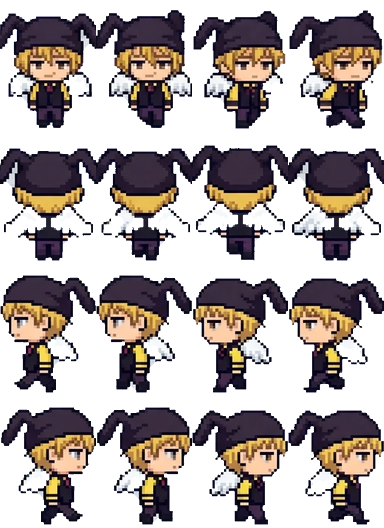
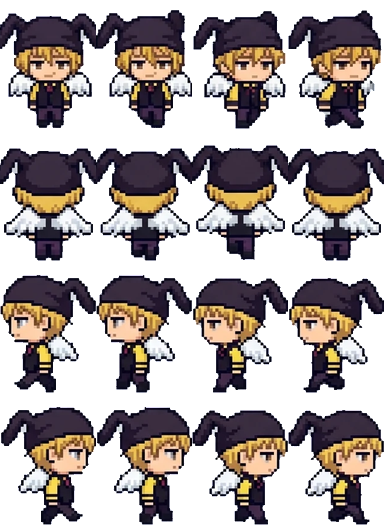
이즈미 날개 누끼 수정 (안쪽 채우기)
Claude-Session: https://claude.ai/code/session_01KaPsBYLrtbRfMYNG2xeBCK

diff --git a/docs/app.js b/docs/app.js
@@ -48,7 +48,7 @@ function spr(cat, k, col, sc) {
   return `<div class="clip" style="width:${it[2] * sc}px;height:${it[3] * sc}px;POS"><img class="px" src="assets/decor/${cat}.png" alt="" style="width:${S.sw * sc}px;height:${S.sh * sc}px;margin-left:${-col * S.cw * sc}px;margin-top:${-i * S.ch * sc}px"></div>`;
 }
 const icon = (k, sz) => `<span class="itm" style="width:${sz}px;height:${sz}px"><img class="px" src="assets/ui/items.png" alt="" style="width:${IT.length * sz}px;height:${sz}px;margin-left:${-ITM[k].i * sz}px"></span>`;
-const face = (id, w) => { const s = w / 96; return `<img class="px" src="assets/ch/${id}.webp?v=2" alt="" style="position:absolute;width:${384 * s}px;height:${528 * s}px;left:${-(96 * s - w) / 2}px;top:0;max-width:none">`; };
+const face = (id, w) => { const s = w / 96; return `<img class="px" src="assets/ch/${id}.webp?v=3" alt="" style="position:absolute;width:${384 * s}px;height:${528 * s}px;left:${-(96 * s - w) / 2}px;top:0;max-width:none">`; };
 
 // ---------- 저장 ----------
 let fb = null, user = null, S = null, saveT = null;
@@ -115,7 +115,7 @@ function sleepHTML(id, r) {
   const pos = r.a && r.a[0] === 'bed' ? 'left:3%;bottom:20%' : r.b && r.b[0] === 'bed' ? 'right:3%;bottom:20%' : 'left:calc(50% - 44px);bottom:6%';
   const s = 36 / 96;
   return `<div style="position:absolute;width:88px;height:56px;${pos};z-index:5"><div style="position:absolute;inset:0;filter:brightness(.22)">
-    <div style="position:absolute;left:11px;top:1px;width:36px;height:50px;overflow:hidden;transform:rotate(-90deg)"><img class="px" src="assets/ch/${id}.webp?v=2" alt="" style="width:${384 * s}px;height:${528 * s}px;max-width:none;margin-top:${-132 * s}px"></div>
+    <div style="position:absolute;left:11px;top:1px;width:36px;height:50px;overflow:hidden;transform:rotate(-90deg)"><img class="px" src="assets/ch/${id}.webp?v=3" alt="" style="width:${384 * s}px;height:${528 * s}px;max-width:none;margin-top:${-132 * s}px"></div>
     <div style="position:absolute;left:19px;top:19px;width:67px;height:29px;border:2px solid var(--ink);border-radius:8px 6px 4px 4px;background:#8ccff5;background-image:repeating-linear-gradient(90deg,transparent 0 10px,rgba(255,255,255,.5) 10px 13px)"></div></div>
     <span class="emo" style="left:8px;top:-22px;color:#5b6bd6">Z z z</span></div>`;
 }
@@ -125,7 +125,7 @@ function roomHTML(id, o, scale) {
     <div class="floor" style="background-color:${PAL[r.fc][1]};background-image:${tileUrl('floor', r.fl)}"></div>
     ${slot('deco', r.dc, 'left:6%;top:6%')}${slot('furn', r.a, 'left:3%;bottom:20%')}${slot('furn', r.b, 'right:3%;bottom:20%')}${slot('prop', r.pr, 'left:28%;bottom:4%;z-index:2')}
     ${id && o.sleeping ? sleepHTML(id, r) : ''}${id && o.job ? `<div style="position:absolute;left:50%;top:38%;transform:translateX(-50%);z-index:5;background:#fff;border:3px solid var(--ink);border-radius:10px;padding:6px 10px;font-size:11px;text-align:center;line-height:1.5"><img src="assets/ui/ic_job.png" alt="" style="width:18px;vertical-align:-4px"> ${esc(JOB_NAME[id])} 알바 중<br><b id="jobleft">${timeLeft(o.job.until)}</b></div>` : ''}
-    ${id ? `<div class="shadow" id="shd"></div><div class="man" id="man"><img class="px" src="assets/ch/${id}.webp?v=2" alt="${esc(nameOf(id))}"></div><span class="emo" id="emo" hidden></span><span class="mumble" id="mum" hidden></span>` : ''}
+    ${id ? `<div class="shadow" id="shd"></div><div class="man" id="man"><img class="px" src="assets/ch/${id}.webp?v=3" alt="${esc(nameOf(id))}"></div><span class="emo" id="emo" hidden></span><span class="mumble" id="mum" hidden></span>` : ''}
     ${o.sleeping ? '<div class="night"></div>' : ''}
   </div>`;
 }

diff --git a/docs/index.html b/docs/index.html
@@ -12,6 +12,6 @@
 <main id="app" aria-live="polite"></main>
 <div id="toast" role="status" hidden></div>
 <script src="firebase-config.js?v=3"></script>
-<script type="module" src="app.js?v=9"></script>
+<script type="module" src="app.js?v=10"></script>
 </body>
 </html>

diff --git a/tk_chars.py b/tk_chars.py
@@ -30,7 +30,7 @@ SIDE = {
     'nifuji':         dict(left=[(3, 0), (3, 1)], right=[(2, 1), (2, 2)]),
     'gintoki':        dict(left=[(2, 1), (2, 2), (2, 3), (2, 4)], right='mirror', fill_inside=True, phase=False, nofill=True),
     'usui':           dict(left='mirror', right=[(2, 1), (2, 2), (2, 3), (2, 4)], up=[0, 1, 2, 4], down=[1, 2, 3, 4]),
-    'izumi':          dict(left='mirror', right=[(2, 1), (2, 2), (3, 2), (3, 3)], fill_frame=3, phase=False),
+    'izumi':          dict(left='mirror', right=[(2, 1), (2, 2), (3, 2), (3, 3)], fill_inside=True, phase=False, nofill=True),
     'ponytail':       dict(left=[(3, 0), (3, 1), (3, 2), (3, 3)], right=[(2, 1), (2, 2), (2, 3), (2, 4)]),
     'spiky':          dict(left=[(3, 0), (3, 1), (3, 2), (3, 3)], right=[(2, 1), (2, 2), (2, 3), (2, 4)], fill_frame=3),
     'kyon':           dict(left=[(3, 0), (3, 1), (3, 2), (3, 3)], right=[(2, 1), (2, 2), (2, 3), (2, 4)]),
